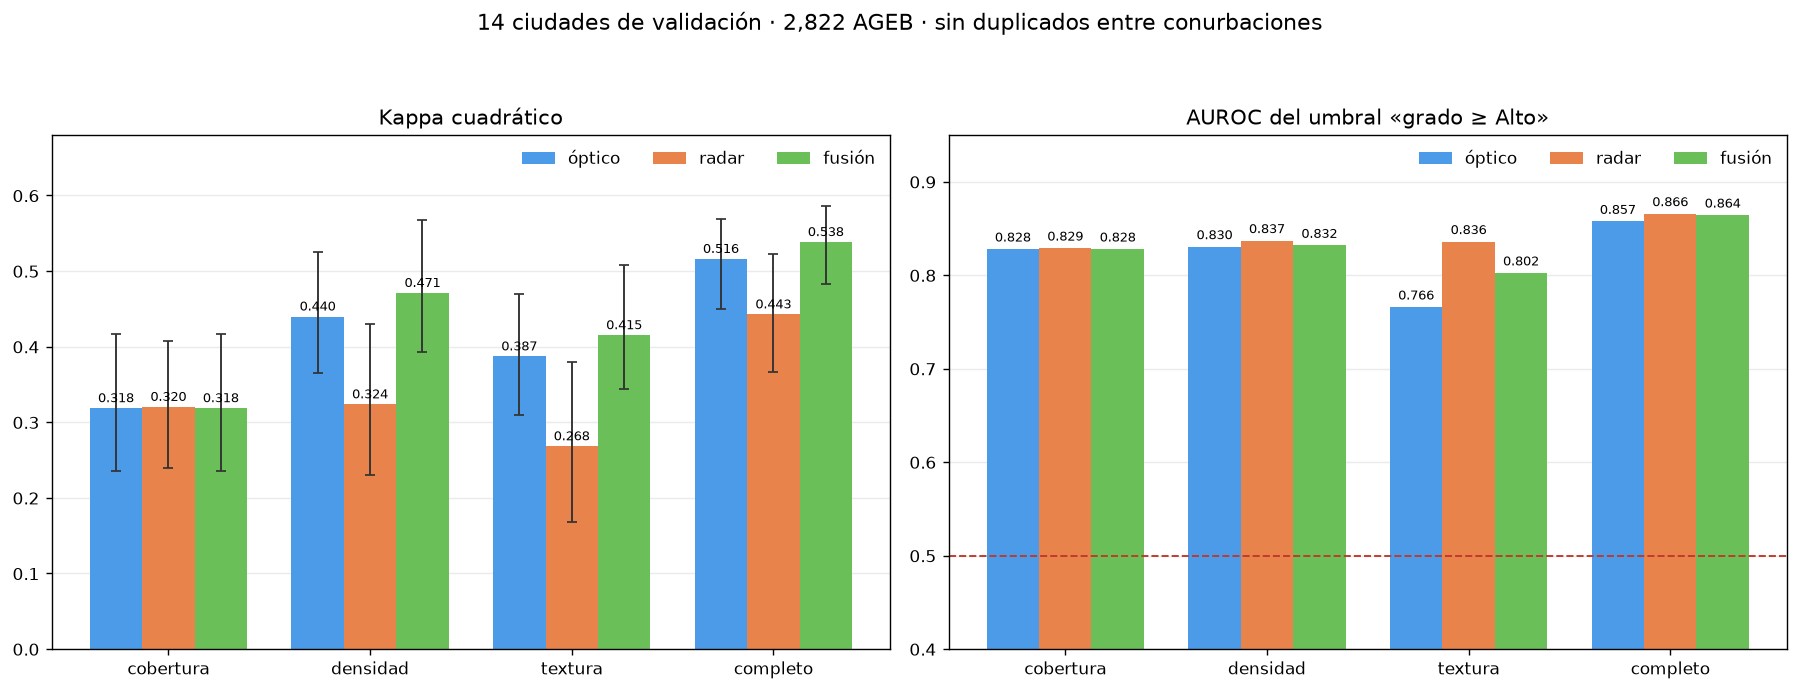
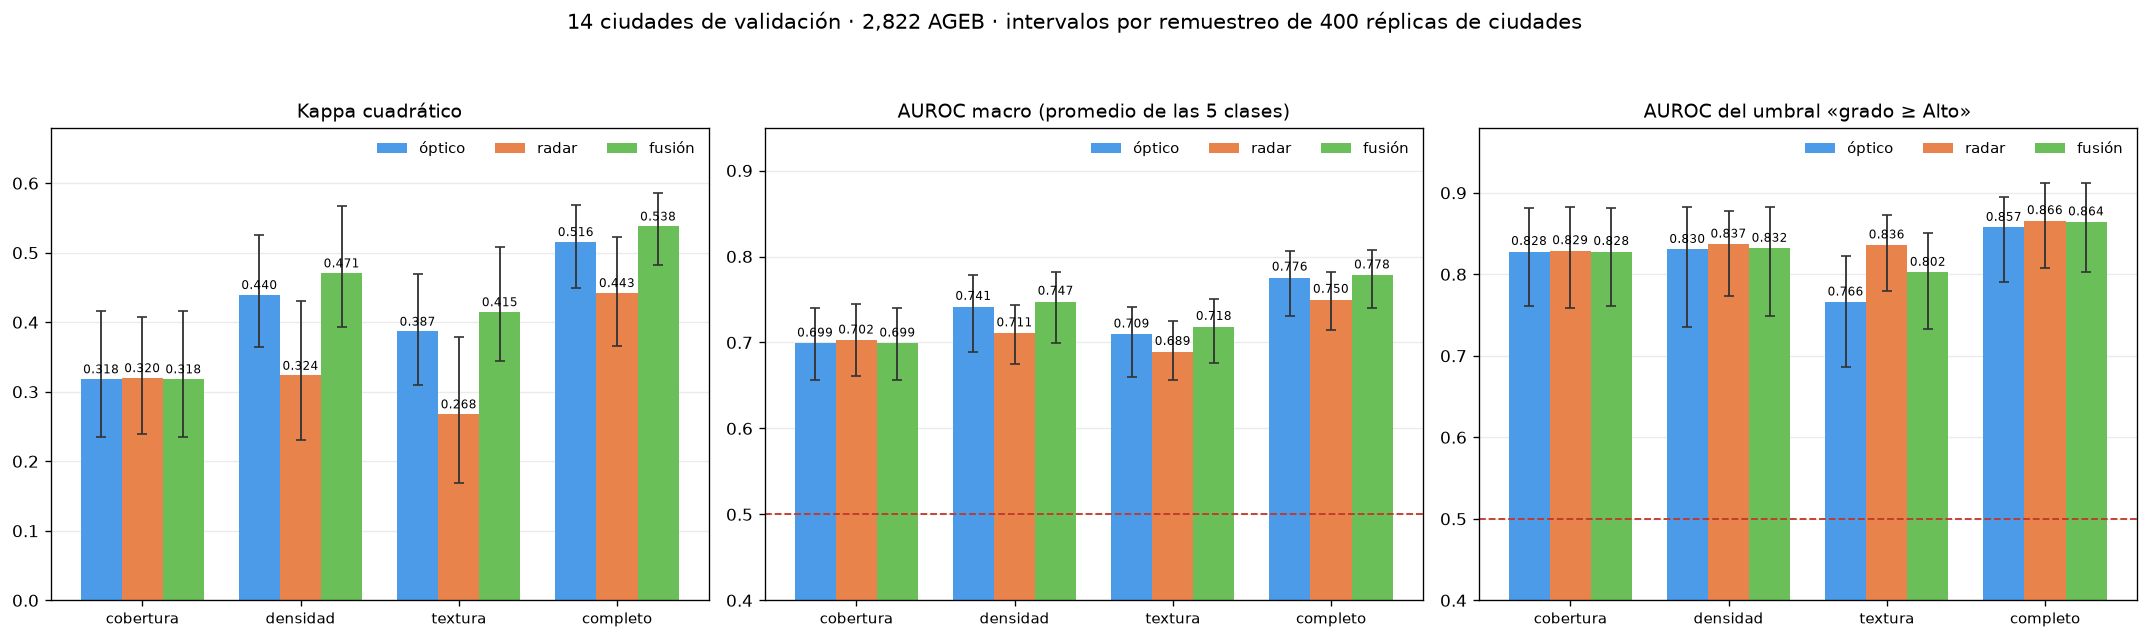
Pone intervalo a todas las áreas bajo la curva
Solo kappa, Spearman y el área macro lo llevaban, así que las de cada umbral salían
desnudas en las figuras. Son las que más se citan, y presentarlas sin intervalo invita
a leer diferencias de centésimas como si significaran algo: en el umbral alto las tres
modalidades van de 0.857 a 0.866 con intervalos que se solapan enteros.

diff --git a/src/satinsight/baseline.py b/src/satinsight/baseline.py
@@ -21,6 +21,7 @@ inflaría el resultado por autocorrelación espacial.
 """
 
 import logging
+from collections import defaultdict
 
 import numpy as np
 import pandas as pd
@@ -517,19 +518,23 @@ def evaluar_particion(
     ciudades = mide[columna_grupo].to_numpy()
     azar = np.random.default_rng(SEMILLA)
     unicas = np.unique(ciudades)
-    replicas: dict[str, list[float]] = {"kappa": [], "auroc_macro": [], "spearman": []}
+    replicas: dict[str, list[float]] = defaultdict(list)
     for _ in range(remuestreos):
         elegidas = azar.choice(unicas, size=len(unicas), replace=True)
         filas = np.concatenate([np.flatnonzero(ciudades == c) for c in elegidas])
-        v, pr = verdad[filas], prediccion[filas]
+        v, pr, puntos = verdad[filas], prediccion[filas], puntuaciones[filas]
         if len(set(v)) < 2:
             continue
         replicas["kappa"].append(float(cohen_kappa_score(v, pr, weights="quadratic")))
         replicas["spearman"].append(float(spearmanr(v, pr).statistic))
-        puntos = puntuaciones[filas]
-        macro = auroc_una_contra_resto(v, puntos).get("auroc_macro")
-        if macro is not None:
-            replicas["auroc_macro"].append(macro)
+        # todas las áreas bajo la curva reciben intervalo, incluidas las de cada umbral:
+        # son las que más se citan y presentarlas desnudas invita a leer diferencias de
+        # centésimas como si significaran algo
+        for nombre, valor in {
+            **auroc_una_contra_resto(v, puntos),
+            **auroc_acumulada(v, puntos),
+        }.items():
+            replicas[nombre].append(valor)
 
     intervalos = {}
     for nombre, valores in replicas.items():
